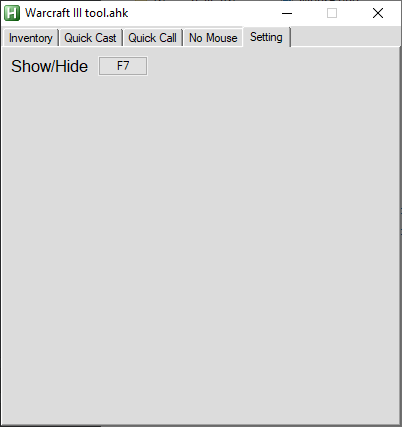
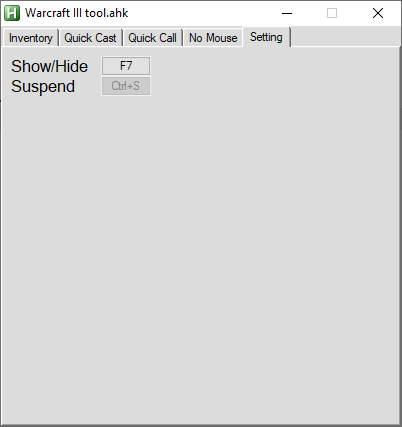
update settingGUI for readme

diff --git a/README.md b/README.md
@@ -9,9 +9,17 @@ Make life easier
 ![GUI](https://github.com/Lch3181/Warcraft-lll_TWrpg_AHKs/blob/master/Readme_Images/NoMouseGUI.png)
 ![GUI](https://github.com/Lch3181/Warcraft-lll_TWrpg_AHKs/blob/master/Readme_Images/SettingGUI.png)
 
-How to use:
-
+## How to use:
 Press the button to edit the Hotkey by pressing the key you want on keyboard or press Escape to unsign.
+
+## FQA: 
+Q: Why I cant assgin my hotkey.
+
+A: Properly that key is assgined to something already.
+
+Q: Can I use with lee's twrpg loader?
+
+A: Yes, but you have to suspend(Ctrl+S) this tool first; use twrpg loader;then un-suspend this tool again.
 
 ## Independent scripts
 ![GUI](https://github.com/Lch3181/Warcraft-lll_TWrpg_AHKs/blob/master/Readme_Images/GUI.png)
